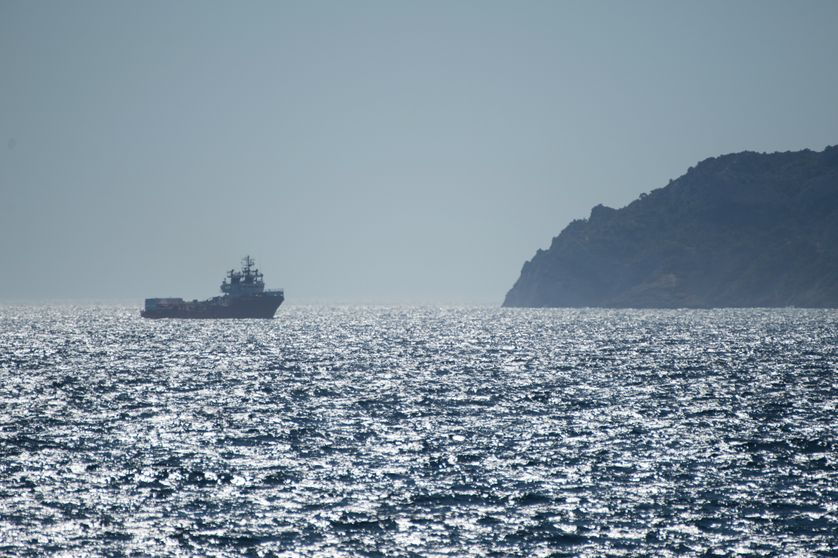
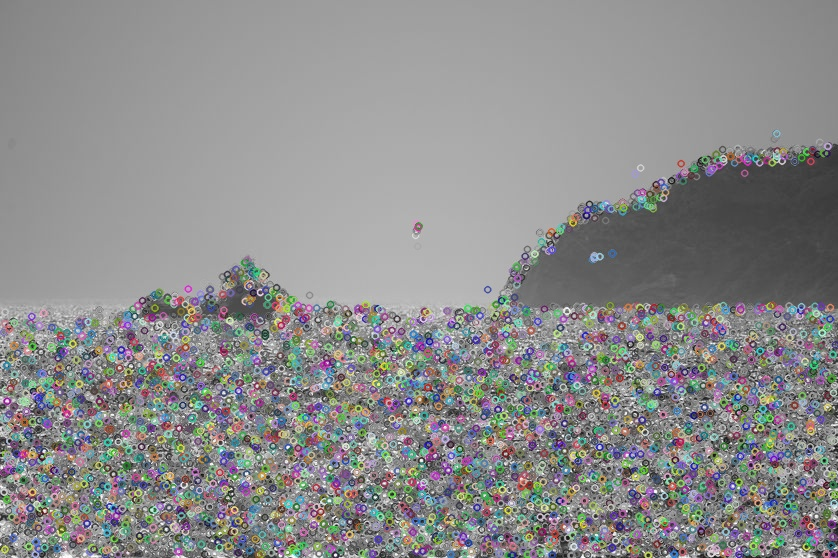
Implement script to compare sift between to image

diff --git a/sift_detection/sift_detection.py b/sift_detection/sift_detection.py
@@ -1,0 +1,32 @@
+import sys
+
+import numpy as np
+import cv2
+from matplotlib import pyplot as plt
+
+img1 = cv2.imread("za7huw.jpeg")
+img2 = cv2.imread("z3tt.png")
+
+sift = cv2.SIFT_create()
+kp1, desc1 = sift.detectAndCompute(img1, None)
+kp2, desc2 = sift.detectAndCompute(img2, None)
+
+index_paras = dict(algorithm=0, trees=5)
+search_params = dict()
+flann = cv2.FlannBasedMatcher(index_paras, search_params)
+
+matches = flann.knnMatch(desc1, desc2, k=2)
+
+good_point = []
+for m, n in matches:
+    if m.distance < 0.2*n.distance:
+        good_point.append(m)
+
+print("taille de kp1: ", len(kp1))
+print("taille de kp2: ", len(kp2))
+print(len(good_point))
+
+result = cv2.drawMatches(img1, kp1, img2, kp2, good_point, None)
+cv2.imshow("result", cv2.resize(result, None, fx=0.4, fy=0.4))
+cv2.waitKey(0)
+
